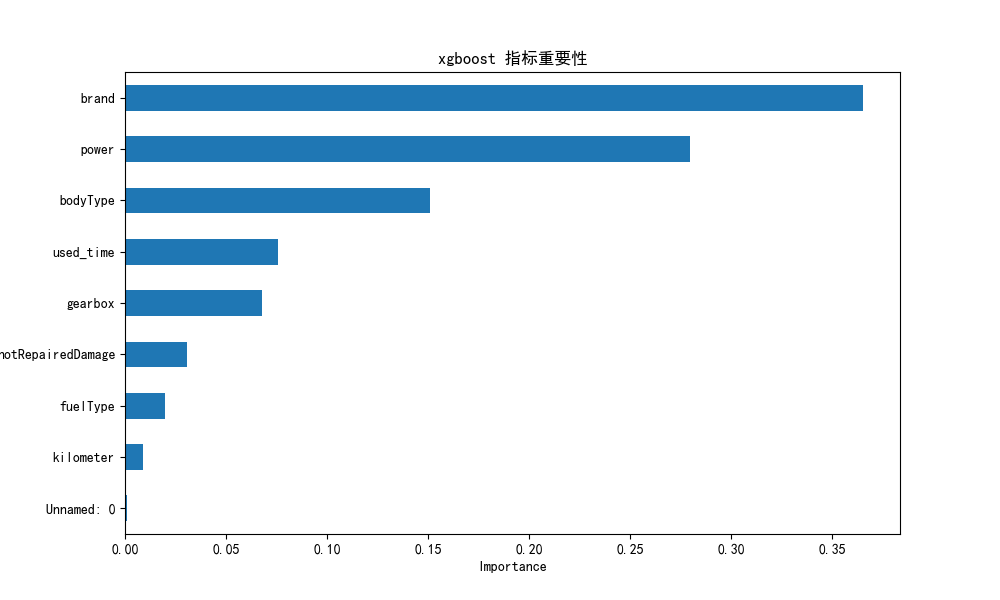
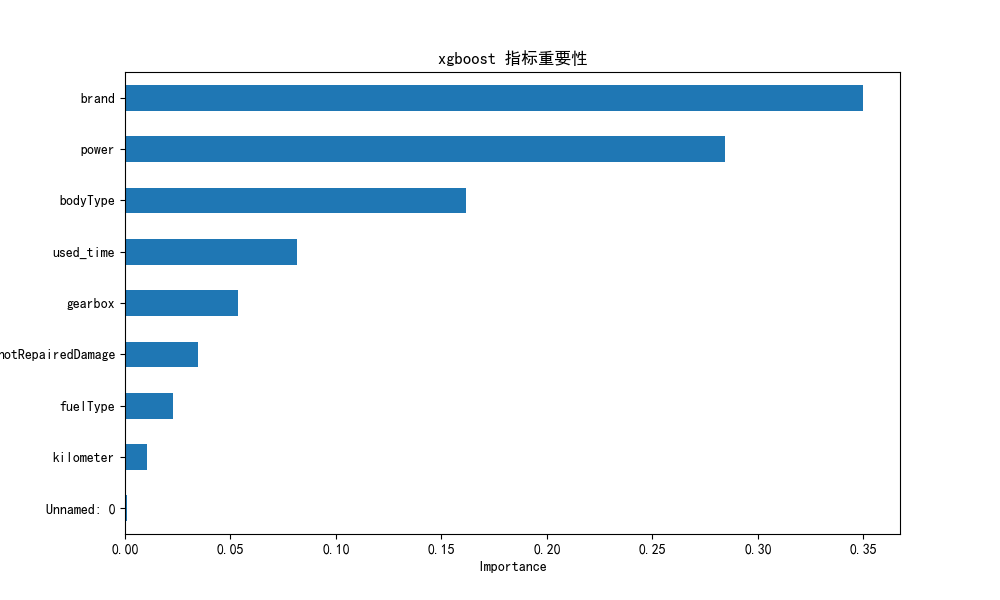
change-二手车价格预测

diff --git a/预测-随机森林.py b/预测-随机森林.py
@@ -35,13 +35,7 @@ print(len(x_train),len(x_val),len(y_train))
 
 
 # 随机森林分类器
-model2 = RandomForestRegressor()
-# n_estimators=100, random_state=0
-
-
-
-
-
+model2 = RandomForestRegressor(n_estimators=190,max_depth=10)
 
 # 设置需要调试的参数
 tuned_parameters = {'n_estimators': [100,190],'max_depth': [5,10]}
@@ -142,42 +136,42 @@ print("MAE (scikit-learn):", mae_sklearn)
 
 
 
-# # 查看随机森林各项指标系数
-# importance =model2.feature_importances_
-#
-#
-# # 将特征重要性转换为DataFrame
-# feature_importance = pd.DataFrame(importance, index=X_data.columns, columns=['Importance'])
-# feature_importance = feature_importance.sort_values(by='Importance', ascending=False)
-#
-# # 打印特征重要性
-# print("Feature Importances:")
-# print(feature_importance)
-#
-#
-# merged_importance = {}
-# prefixes = ['brand_', 'bodyType_', 'gearbox_', 'power_bin_','fuelType','notRepairedDamage','Unnamed:0']
-#
-# for col in X_data.columns:
-#     added_to_merged = False
-#     for prefix in prefixes:
-#         if col.startswith(prefix):
-#             category_name = col.split('_')[0]  # 获取分类变量名称
-#             merged_importance[category_name] = merged_importance.get(category_name, 0) + feature_importance.loc[col]
-#             added_to_merged = True
-#             break
-#     if not added_to_merged:
-#         merged_importance[col] = feature_importance.loc[col]
-#
-# # 将合并后的重要性转换为DataFrame并排序
-# merged_importance_df = pd.DataFrame.from_dict(merged_importance, orient='index', columns=['Importance'])
-# merged_importance_df = merged_importance_df.sort_values(by='Importance',ascending=True)
-#
-# # 使用条形图展示合并后的特征重要性
-# plt.figure(figsize=(12, 6))
-# # plt.barh(merged_importance_df.index, merged_importance_df['Importance'])
-# merged_importance_df.plot(kind='barh', title='Feature Importances', figsize=(10, 6), legend=False)
-# plt.title('随机森林模型指标重要性')
-# plt.xlabel('Importance')
-# plt.show()
+# 查看随机森林各项指标系数
+importance =model2.feature_importances_
+
+
+# 将特征重要性转换为DataFrame
+feature_importance = pd.DataFrame(importance, index=X_data.columns, columns=['Importance'])
+feature_importance = feature_importance.sort_values(by='Importance', ascending=False)
+
+# 打印特征重要性
+print("Feature Importances:")
+print(feature_importance)
+
+
+merged_importance = {}
+prefixes = ['brand_', 'bodyType_', 'gearbox_', 'power_bin_','fuelType','notRepairedDamage','Unnamed:0']
+
+for col in X_data.columns:
+    added_to_merged = False
+    for prefix in prefixes:
+        if col.startswith(prefix):
+            category_name = col.split('_')[0]  # 获取分类变量名称
+            merged_importance[category_name] = merged_importance.get(category_name, 0) + feature_importance.loc[col]
+            added_to_merged = True
+            break
+    if not added_to_merged:
+        merged_importance[col] = feature_importance.loc[col]
+
+# 将合并后的重要性转换为DataFrame并排序
+merged_importance_df = pd.DataFrame.from_dict(merged_importance, orient='index', columns=['Importance'])
+merged_importance_df = merged_importance_df.sort_values(by='Importance',ascending=True)
+
+# 使用条形图展示合并后的特征重要性
+plt.figure(figsize=(12, 6))
+# plt.barh(merged_importance_df.index, merged_importance_df['Importance'])
+merged_importance_df.plot(kind='barh', title='Feature Importances', figsize=(10, 6), legend=False)
+plt.title('随机森林模型指标重要性')
+plt.xlabel('Importance')
+plt.show()
 

diff --git a/预测-岭回归.py b/预测-岭回归.py
@@ -1,28 +1,25 @@
-from sklearn.linear_model import LinearRegression
+
 import warnings
 warnings.filterwarnings('ignore')
 import pandas as pd
-from sklearn.model_selection import GridSearchCV,cross_val_score,StratifiedKFold,train_test_split
-from sklearn.ensemble import RandomForestRegressor
 import numpy as np
-from math import sqrt
+from sklearn.model_selection import GridSearchCV,cross_val_score,StratifiedKFold,train_test_split
+from sklearn.linear_model import RidgeCV
+
+
 from sklearn.metrics import mean_squared_error, mean_absolute_error
 from matplotlib import pyplot as plt
-import sklearn.linear_model as lm
-
+from sklearn.linear_model import Ridge
+plt.rcParams['font.family'] = 'SimHei'
 # 载入训练集和测试集；
 path = './data/'
 Train_data = pd.read_csv(path+'模型构建所用数据-train.csv')
-# Train_data = pd.read_csv(path+'data_数据清洗.csv')
 Test_data = pd.read_csv(path+'模型构建所用数据-test.csv', )
 
 # Train_data = Train_data.fillna(-1)
 
 # 使用时间空缺填充成平均值
 Train_data['used_time']=Train_data['used_time'].fillna(Train_data['used_time'].mean())
-
-# X_data=Train_data.drop(['SaleID','regDate','creatDate','regionCode'],axis=1)
-# X_data=Train_data[['kilometer','v_0','v_1','v_2','v_3','v_4','v_5','v_6','v_7','used_time']]
 
 X_data=Train_data.drop(['price','v_0','v_1','v_2','v_3','v_4','v_5','v_6','v_7','v_8','v_9','v_10','v_11','v_12','v_13','v_14'],axis=1)
 Y_data=Train_data['price']
@@ -33,12 +30,41 @@ x_train,x_val,y_train,y_val = train_test_split(X_data,Y_data,test_size=0.3,rando
 print(len(x_train),len(x_val),len(y_train))
 
 
-model1=lm.Ridge(0.6,fit_intercept=True,max_iter=5)
 
+
+
+# #构造不同的lambda值
+# Lambdas=np.logspace(-5,2,200)
+# #存放偏回归系数
+# ridge_cofficients=[]
+# for Lambda in Lambdas:
+#     ridge=Ridge(alpha=Lambda)
+#     ridge.fit(x_train,y_train)
+#     ridge_cofficients.append(ridge.coef_)
+#
+# #绘制岭迹曲线
+# plt.rcParams['font.sans-serif']=['Microsoft YaHei']
+# plt.rcParams['axes.unicode_minus']=False
+# plt.style.use('ggplot')
+# plt.plot(Lambdas,ridge_cofficients)
+# #x轴做对数处理
+# plt.xscale('log')
+# plt.xlabel('Log(Lambda)')
+# plt.ylabel('Cofficients')
+# plt.show()
+
+
+#构造不同的lambda值
+Lambdas=np.logspace(-5,2,200)
+#设置交叉验证的参数，使用均方误差评估
+ridge_cv=RidgeCV(alphas=Lambdas,scoring='neg_mean_squared_error',cv=5)
+ridge_cv.fit(x_train,y_train)
+print(ridge_cv.alpha_)
+
+model1=Ridge(alpha=ridge_cv.alpha_,fit_intercept=True,max_iter=5)
 
 model1.fit(x_train,y_train)
 
-# scores = cross_val_score(model1,x_train,y_train,cv=4)
 
 print('各系数'+str(model1.coef_))
 print(X_data.columns)
@@ -59,14 +85,14 @@ importance =abs(coefficient)
 index=X_data.columns
 feature_importance = pd.DataFrame(importance.T, index=index).sort_values(by=0, ascending=True)
 
-# # # 查看指标重要度
-# print(feature_importance)
-#
-# # 水平条形图绘制
-# feature_importance.tail(9).plot(kind='barh', title='Feature Importances', figsize=(10, 6), legend=False)
-# plt.savefig('岭回归')
-# plt.show()
-# print(feature_importance.tail(9))
+# # 查看指标重要度
+print(feature_importance)
+
+# 水平条形图绘制
+feature_importance.tail(9).plot(kind='barh', title='Feature Importances', figsize=(10, 6), legend=False)
+plt.savefig('岭回归')
+plt.show()
+print(feature_importance.tail(9))
 #决定系数
 score_train = model1.score(x_train,y_train)
 score_test = model1.score(x_val,y_val)

diff --git a/预测-xgboost.py b/预测-xgboost.py
@@ -4,6 +4,7 @@ from sklearn.model_selection import train_test_split
 from xgboost import XGBRegressor
 from sklearn.metrics import mean_squared_error, mean_absolute_error
 import matplotlib.pyplot as plt
+from sklearn.model_selection import GridSearchCV
 plt.rcParams['font.family'] = 'SimHei'
 
 # 载入训练集和测试集
@@ -22,7 +23,17 @@ Y_data = Train_data['price']
 x_train, x_val, y_train, y_val = train_test_split(X_data, Y_data, test_size=0.3, random_state=33)
 
 # 创建XGBoost模型
-model = XGBRegressor()
+model = XGBRegressor(n_estimators=190,max_depth=5)
+# 设置需要调试的参数
+tuned_parameters = {'n_estimators': [100,190],'max_depth': [5,10]}
+
+# 调用网格搜索函数
+rf_clf = GridSearchCV(model, tuned_parameters, cv=5, n_jobs=-1, scoring='neg_mean_squared_error')
+rf_clf.fit(x_train, y_train)
+print(rf_clf.best_params_)
+print(rf_clf.best_score_)
+
+
 
 # 训练模型
 model.fit(x_train, y_train)
